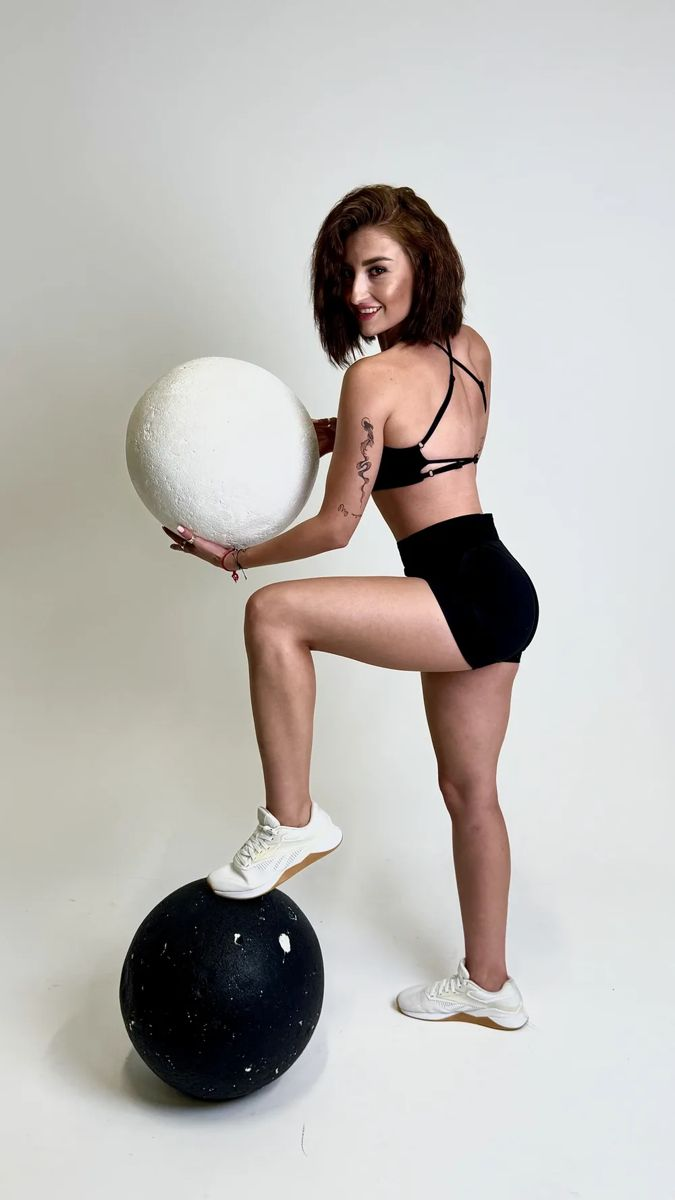
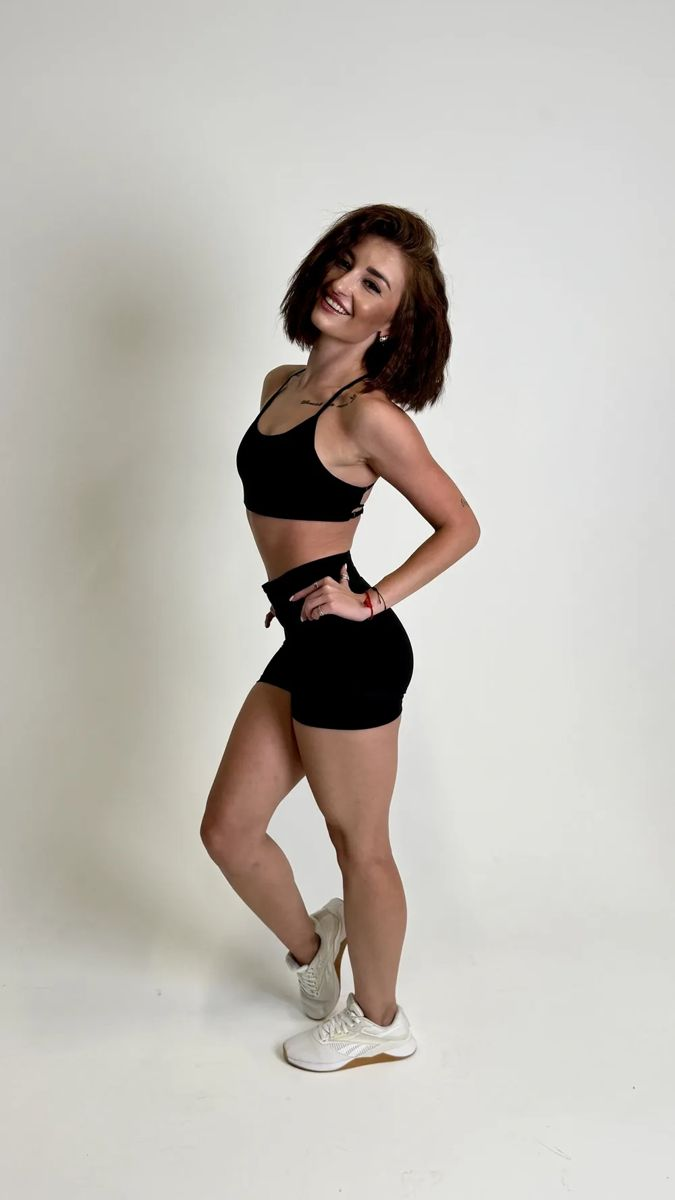
## Фото на главном экране убрано, добавлены цитаты, вопросы и новые результаты - **Фото Софии:** фото с мячом и подпись «Финалистка чемпионата Европы» удалены с главного экрана. Теперь там только заголовок, текст и вращающийся значок «Свой ритм». Фото Софии осталось одно — в блоке «Обо мне». Это же 
Next Action Items:
- **Ответ про зал**: Впиши ответ Софии на вопрос «Нужен ли зал?» вместо заглушки
- **Новые отзывы**: Добавь новые скриншоты отзывов в галерею и цитаты из них в бегущую строку
- **Анкета перед стартом**: Добавь короткую анкету о противопоказаниях и целях, которая отправляется Софии в Telegram

Emergent-Commit-Key: 9ff3e12d914a37b228e29e047f4ee783ba704e3a79207345b9ae814374eea817

diff --git a/frontend/src/components/site/Hero.jsx b/frontend/src/components/site/Hero.jsx
@@ -1,7 +1,7 @@
 import { motion, useScroll, useTransform } from "framer-motion";
 import { ArrowDown, MapPin } from "lucide-react";
 import { TgButton } from "./TgButton";
-import { HeroPortrait } from "./HeroPortrait";
+import { HeroBadge } from "./HeroBadge";
 import { EASE, scrollToId } from "./Reveal";
 import { tgWithText, CONTACTS, CTA_TEXT } from "../../data/content";
 
@@ -30,15 +30,19 @@ export const Hero = () => {
     <section id="top" aria-labelledby="hero-title" className="relative min-h-[100svh] overflow-hidden pt-[110px] pb-16 lg:pt-[130px]">
       <motion.p style={{ y: bgY }} aria-hidden="true" className="ghost-word pointer-events-none absolute -bottom-[0.18em] left-0 right-0 text-center font-display uppercase leading-none select-none">Sofi</motion.p>
       <div className="hero-glow" aria-hidden="true" />
-      <div className="relative mx-auto max-w-[1360px] px-5 sm:px-8 lg:px-12 grid lg:grid-cols-12 gap-12 lg:gap-8 items-center">
-        <div className="lg:col-span-7">
+      <div className="relative mx-auto max-w-[1360px] px-5 sm:px-8 lg:px-12">
+        <HeroBadge />
+        <div>
           <motion.p {...fade(0.2)} className="font-mono text-xs uppercase tracking-[0.28em] text-zinc-300 flex items-center gap-3">
             <span className="h-2 w-2 rounded-full bg-neon animate-pulse" />София Рзаева · фитнес-наставник
           </motion.p>
-          <h1 id="hero-title" className="mt-7 font-display uppercase leading-[0.98] tracking-[-0.02em] text-[1.7rem] sm:text-5xl lg:text-[2.7rem] xl:text-[3.2rem]">
+          <h1 id="hero-title" className="mt-7 font-display uppercase leading-[0.98] tracking-[-0.02em] text-[1.7rem] sm:text-5xl lg:text-[4.2rem] xl:text-[5rem]">
             {LINES.map((l, i) => <MaskLine key={l} text={l} i={i} />)}
           </h1>
-          <motion.p {...fade(0.85)} className="mt-8 max-w-xl text-base sm:text-lg text-zinc-300 leading-relaxed">
+        </div>
+        <div className="mt-10 lg:mt-14 grid lg:grid-cols-12 gap-10 lg:gap-8 items-end">
+        <div className="lg:col-span-7">
+          <motion.p {...fade(0.85)} className="max-w-xl text-base sm:text-lg text-zinc-300 leading-relaxed">
             Помогаю женщинам менять фигуру, налаживать питание и выстраивать привычки, которые позволяют сохранять результат без постоянных ограничений
           </motion.p>
           <motion.p {...fade(0.95)} className="mt-4 max-w-xl text-sm sm:text-base text-zinc-400 leading-relaxed">
@@ -51,13 +55,15 @@ export const Hero = () => {
               Обо мне
             </button>
           </motion.div>
-          <motion.dl {...fade(1.15)} className="mt-14 grid grid-cols-3 gap-4 max-w-xl border-t border-white/10 pt-6 text-sm">
+        </div>
+        <div className="lg:col-span-5">
+          <motion.dl {...fade(1.15)} className="grid grid-cols-3 lg:grid-cols-1 gap-4 lg:gap-5 border-t lg:border-t-0 lg:border-l border-white/10 pt-6 lg:pt-0 lg:pl-8 text-sm">
             <div><dt className="font-mono text-[11px] uppercase tracking-[0.2em] text-zinc-400">Спорт</dt><dd className="mt-1 text-zinc-200 pr-2">Многократная чемпионка России</dd></div>
             <div><dt className="font-mono text-[11px] uppercase tracking-[0.2em] text-zinc-400">Формат</dt><dd className="mt-1 text-zinc-200">Индивидуально, онлайн</dd></div>
             <div><dt className="font-mono text-[11px] uppercase tracking-[0.2em] text-zinc-400">Где</dt><dd className="mt-1 text-zinc-200 flex items-center gap-1"><MapPin className="h-3.5 w-3.5 text-neon" />{CONTACTS.city}</dd></div>
           </motion.dl>
         </div>
-        <div className="lg:col-span-5"><HeroPortrait /></div>
+        </div>
       </div>
     </section>
   );

diff --git a/frontend/src/data/content.js b/frontend/src/data/content.js
@@ -21,6 +21,7 @@ export const NAV = [
   { id: "services", label: "Сопровождение" },
   { id: "results", label: "Результаты" },
   { id: "reviews", label: "Отзывы" },
+  { id: "faq", label: "Вопросы" },
   { id: "contact", label: "Контакты" },
 ];
 
@@ -61,6 +62,24 @@ export const COACHING_PRICE = "По запросу";
 export const RESULTS = [
   { src: "/img/result-1.webp", w: 1125, h: 2000, alt: "Результат клиентки: фото фигуры спереди, сбоку и сзади — до (сверху) и после (снизу)" },
   { src: "/img/result-2.webp", w: 1179, h: 1682, alt: "Результат клиентки: фото фигуры спереди, сбоку и сзади — до (сверху) и после (снизу)" },
+  { src: "/img/result-5.webp", w: 1125, h: 2000, alt: "Результат клиентки: фото фигуры спереди, сбоку и сзади в двух рядах — сравнение изменений" },
+  { src: "/img/result-3.webp", w: 1179, h: 1371, alt: "Результат клиентки: два фото фигуры в профиль — сравнение изменений" },
+  { src: "/img/result-4.webp", w: 1179, h: 888, alt: "Результат клиента: два фото торса — сравнение изменений" },
+];
+
+export const QUOTES = [
+  "С тобой легко по-человечески, без давления, но чётко",
+  "Он стал для меня настоящей точкой роста",
+  "Не ждёшь, когда закончится и можно запретное, а хочется продолжать",
+  "У тебя просто офигенные тренировки",
+  "Год назад они на меня даже не налезали. А сейчас налезли просто идеально",
+  "Движение есть, такой классный старт, но идём дальше",
+];
+
+export const FAQ = [
+  { q: "Как проходят тренировки?", a: "Мы заранее обсуждаем ваши противопоказания и заболевания, а также предпочтения в тренировках и желаемый результат. Я составляю тренировочный план на месяц, скидываю фото тренажёров или необходимое оборудование, и мы с вами созваниваемся по видеосвязи в удобном мессенджере и начинаем тренироваться." },
+  { q: "Нужен ли зал?", a: "[Ответ Софии: нужен ли зал или можно заниматься дома]" },
+  { q: "Что с питанием?", a: "Никаких жёстких диет и запретов. В сопровождение входят 8 коротких лекций по питанию — учишься самостоятельно составлять рацион так, чтобы он помогал двигаться к цели и оставался комфортным. Плюс ежедневная обратная связь: я помогаю ориентироваться в выборе еды, даю подсказки и направляю к цели — без жёсткого контроля и чувства вины." },
 ];
 
 export const REVIEWS = [

diff --git a/frontend/src/components/site/Faq.jsx b/frontend/src/components/site/Faq.jsx
@@ -1,0 +1,26 @@
+import { Accordion, AccordionContent, AccordionItem, AccordionTrigger } from "../ui/accordion";
+import { Reveal, Eyebrow } from "./Reveal";
+import { FAQ } from "../../data/content";
+
+export const Faq = () => (
+  <section id="faq" aria-labelledby="faq-title" className="py-24 sm:py-32 border-t border-white/5">
+    <div className="mx-auto max-w-[1360px] px-5 sm:px-8 lg:px-12 grid lg:grid-cols-12 gap-10">
+      <div className="lg:col-span-4">
+        <Reveal><Eyebrow index="07">Частые вопросы</Eyebrow></Reveal>
+        <Reveal delay={0.05}><h2 id="faq-title" className="mt-6 font-display uppercase text-3xl sm:text-5xl leading-[1.02]">Отвечаю <span className="text-neon">заранее</span></h2></Reveal>
+      </div>
+      <Reveal delay={0.1} className="lg:col-span-8">
+        <Accordion type="single" collapsible defaultValue="faq-0" className="border-t border-white/10">
+          {FAQ.map((f, i) => (
+            <AccordionItem key={f.q} value={`faq-${i}`} className="border-b border-white/10">
+              <AccordionTrigger data-testid={`faq-trigger-${i}`} className="py-6 text-left font-display uppercase text-lg sm:text-xl hover:no-underline hover:text-neon transition-colors [&>svg]:text-neon">
+                <span className="flex items-baseline gap-4"><span className="font-mono text-xs text-neon">0{i + 1}</span>{f.q}</span>
+              </AccordionTrigger>
+              <AccordionContent data-testid={`faq-answer-${i}`} className="pb-6 pl-9 text-base text-zinc-300 leading-relaxed max-w-2xl">{f.a}</AccordionContent>
+            </AccordionItem>
+          ))}
+        </Accordion>
+      </Reveal>
+    </div>
+  </section>
+);

diff --git a/frontend/src/components/site/ClientResults.jsx b/frontend/src/components/site/ClientResults.jsx
@@ -12,12 +12,12 @@ export const ClientResults = () => (
         <Reveal delay={0.1}>
           <p className="mt-6 text-zinc-300 leading-relaxed">Здесь собраны реальные истории и отзывы девушек, которые уже начали свой путь. У каждой — своя отправная точка, свой темп и свои изменения.</p>
           <p className="mt-4 text-white font-semibold">Твой результат тоже начинается с первого шага.</p>
-          <p className="mt-6 font-mono text-[11px] uppercase tracking-[0.2em] text-zinc-400">Сверху — до, снизу — после. Нажми, чтобы увеличить</p>
+          <p className="mt-6 font-mono text-[11px] uppercase tracking-[0.2em] text-zinc-400">Нажми на фото, чтобы увеличить</p>
           <TgButton className="mt-8" size="sm" label="Хочу на сопровождение" testId="results-telegram-cta" href={tgWithText(CTA_TEXT)} />
         </Reveal>
       </div>
       <div className="lg:col-span-8">
-        <ZoomGallery items={RESULTS} prefix="result" gridClass="grid grid-cols-1 sm:grid-cols-2 gap-5 items-start" />
+        <ZoomGallery items={RESULTS} prefix="result" gridClass="columns-1 sm:columns-2 gap-5 [&>li]:mb-5 [&>li]:break-inside-avoid" />
       </div>
     </div>
   </section>

diff --git a/frontend/src/components/site/Contact.jsx b/frontend/src/components/site/Contact.jsx
@@ -17,7 +17,7 @@ export const Contact = () => (
   <section id="contact" aria-labelledby="contact-title" className="py-24 sm:py-32 lg:py-40 border-t border-white/5">
     <div className="mx-auto max-w-[1360px] px-5 sm:px-8 lg:px-12 grid lg:grid-cols-12 gap-14">
       <div className="lg:col-span-5">
-        <Reveal><Eyebrow index="07">Контакты</Eyebrow></Reveal>
+        <Reveal><Eyebrow index="08">Контакты</Eyebrow></Reveal>
         <Reveal delay={0.05}><h2 id="contact-title" className="mt-6 font-display uppercase text-3xl sm:text-5xl leading-[1.02]">Начнём <span className="text-neon">с разговора</span></h2></Reveal>
         <Reveal delay={0.1}><p className="mt-6 text-zinc-400 leading-relaxed max-w-md">Напиши мне, расскажи о своей цели — и мы обсудим, как выстроить путь к ней. Форма откроет чат в Telegram с готовым сообщением.</p></Reveal>
         <Reveal delay={0.15} className="mt-10 space-y-3">

diff --git a/frontend/src/components/site/HeroBadge.jsx b/frontend/src/components/site/HeroBadge.jsx
@@ -1,0 +1,18 @@
+import { motion } from "framer-motion";
+import { EASE } from "./Reveal";
+
+export const HeroBadge = () => (
+  <motion.div
+    aria-hidden="true"
+    initial={{ opacity: 0, rotate: -40, scale: 0.8 }}
+    animate={{ opacity: 1, rotate: 0, scale: 1 }}
+    transition={{ duration: 1.2, ease: EASE, delay: 1.1 }}
+    className="hidden md:block absolute right-8 lg:right-12 -top-2 h-32 w-32 lg:h-40 lg:w-40"
+  >
+    <svg viewBox="0 0 100 100" className="h-full w-full animate-[spin_18s_linear_infinite]">
+      <defs><path id="circ" d="M50,50 m-38,0 a38,38 0 1,1 76,0 a38,38 0 1,1 -76,0" /></defs>
+      <text className="font-mono" fontSize="9.5" letterSpacing="2.6" fill="#F4F4F0"><textPath href="#circ">СВОЙ РИТМ · БЕЗ КРАЙНОСТЕЙ · </textPath></text>
+    </svg>
+    <span className="absolute inset-0 m-auto h-4 w-4 rounded-full bg-neon shadow-[0_0_24px_#00FF9D]" />
+  </motion.div>
+);

diff --git a/frontend/src/components/site/QuoteMarquee.jsx b/frontend/src/components/site/QuoteMarquee.jsx
@@ -1,0 +1,21 @@
+import { QUOTES } from "../../data/content";
+
+const Row = ({ hidden }) => (
+  <ul className="flex shrink-0 items-center" aria-hidden={hidden || undefined}>
+    {QUOTES.map((q) => (
+      <li key={q} className="flex items-center whitespace-nowrap">
+        <span className="px-8 sm:px-12 text-lg sm:text-2xl text-zinc-200 italic">«{q}»</span>
+        <span className="h-2 w-2 rounded-full bg-neon shadow-[0_0_12px_#00FF9D]" />
+      </li>
+    ))}
+  </ul>
+);
+
+export const QuoteMarquee = () => (
+  <section aria-label="Цитаты из отзывов клиенток" className="relative border-y border-white/10 py-7 sm:py-9 overflow-hidden bg-neon/[0.03]" data-testid="quotes-marquee">
+    <div className="marquee marquee-slow flex w-max">
+      <Row />
+      <Row hidden />
+    </div>
+  </section>
+);

diff --git a/frontend/src/App.js b/frontend/src/App.js
@@ -14,6 +14,8 @@ import { Process } from "./components/site/Process";
 import { Contact } from "./components/site/Contact";
 import { Footer } from "./components/site/Footer";
 import { MobileCta } from "./components/site/MobileCta";
+import { QuoteMarquee } from "./components/site/QuoteMarquee";
+import { Faq } from "./components/site/Faq";
 
 const useLenis = () => {
   useEffect(() => {
@@ -40,8 +42,10 @@ function App() {
         <Approach />
         <Coaching />
         <ClientResults />
+        <QuoteMarquee />
         <Reviews />
         <Process />
+        <Faq />
         <Contact />
       </main>
       <Footer />

diff --git a/frontend/src/App.css b/frontend/src/App.css
@@ -43,6 +43,7 @@ body {
 
 .marquee { animation: marquee 60s linear infinite; }
 .marquee:hover { animation-play-state: paused; }
+.marquee-slow { animation-duration: 90s; }
 @keyframes marquee { to { transform: translateX(-50%); } }
 
 .nav-link { position: relative; }

diff --git a/memory/PRD.md b/memory/PRD.md
@@ -26,6 +26,11 @@ Frontend-only React (CRA/craco) + Tailwind + framer-motion + lenis. No backend u
 - Price → «По запросу» + DM link @sofi_rzaeva; all booking CTAs (tgWithText, TgButton default, mobile sticky CTA) → https://t.me/sofi_rzaeva (personal); channel @sofi_rzaevaa kept in contacts/footer
 - Mobile sticky «Хочу на сопровождение» button (MobileCta.jsx)
 
+## Update 3 (2026-11-14)
+- Hero photo removed (typographic hero + rotating badge); only about photo of Sofia remains; og-sofi.jpg from about photo
+- Results: +3 photos (result-3..5), masonry; uploaded pink duplicate skipped
+- QuoteMarquee with verbatim quotes from review screenshots; FAQ accordion (Зал answer = placeholder)
+
 ## Backlog
 - P0: Replace hero/about photos with Sofi's real photos; fill prices, bio, contacts
 - P1: Real client cases (with consent), FAQ section
